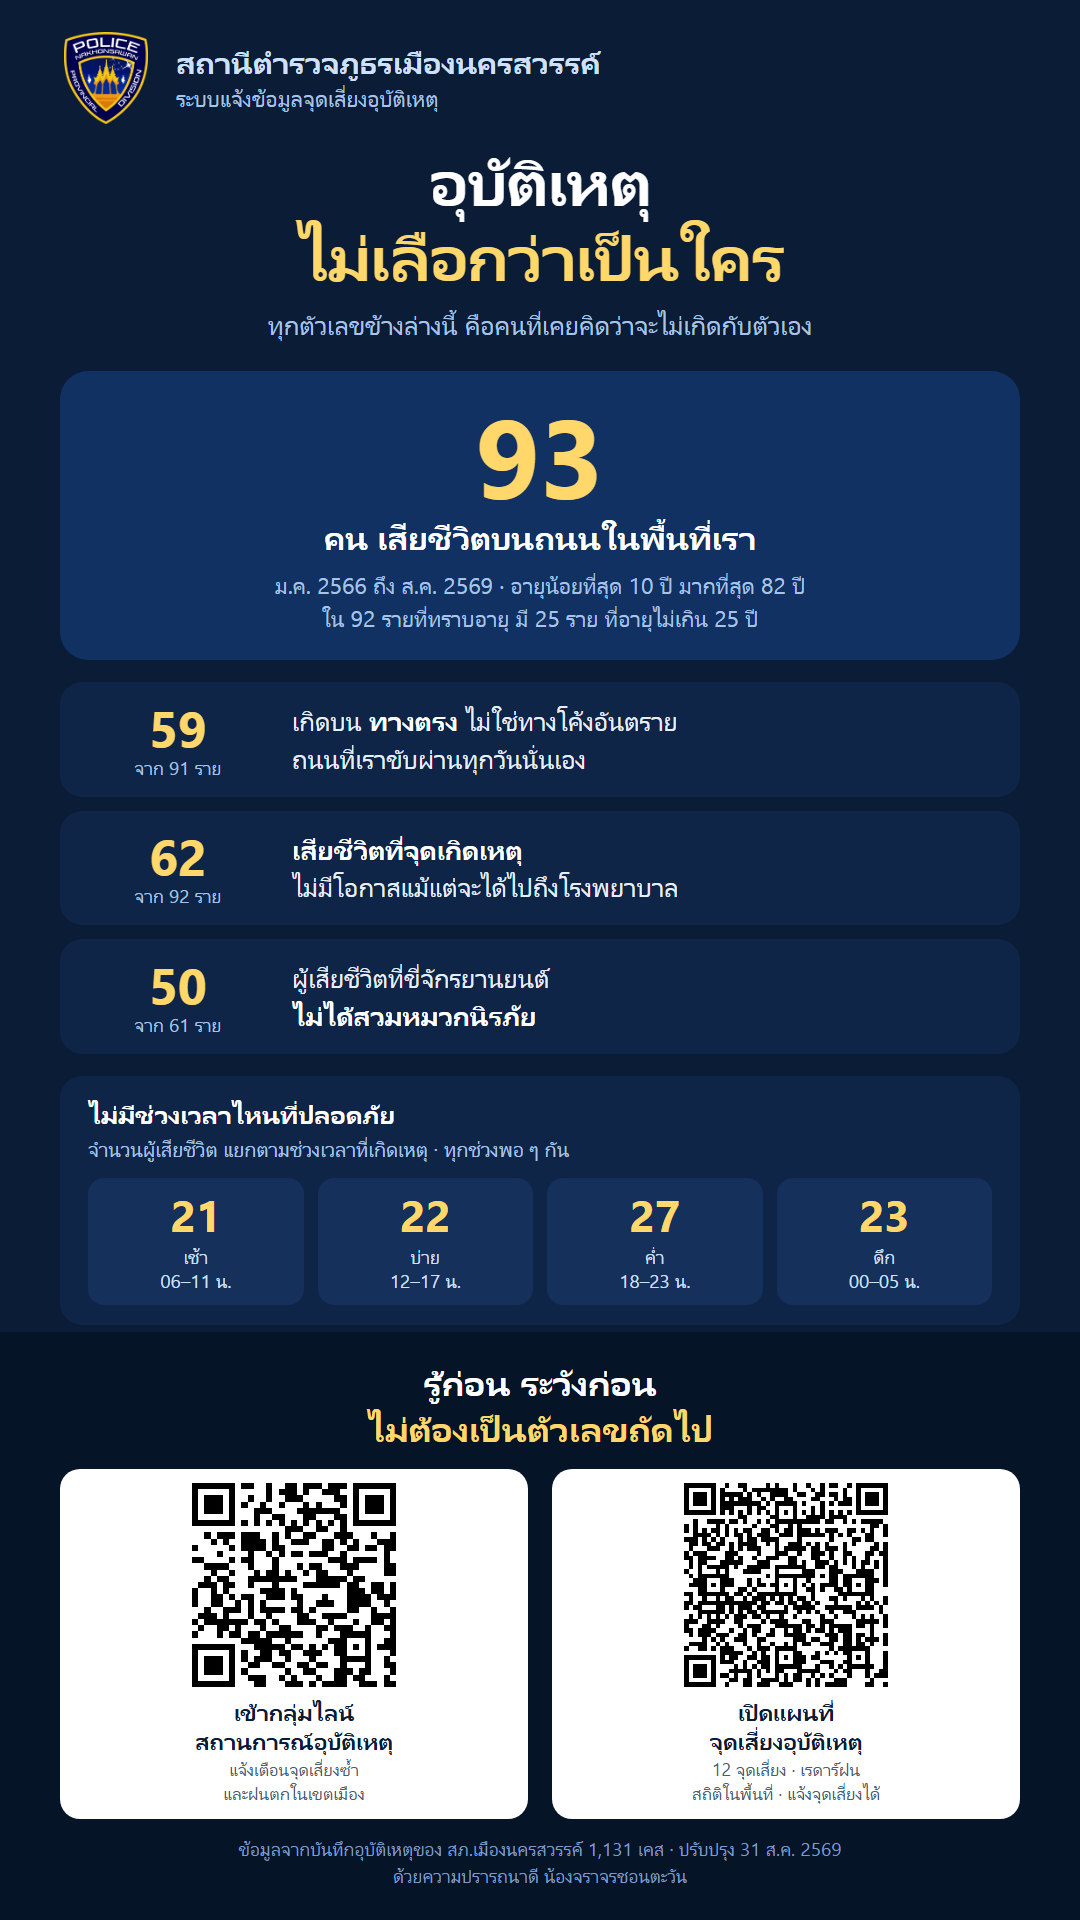
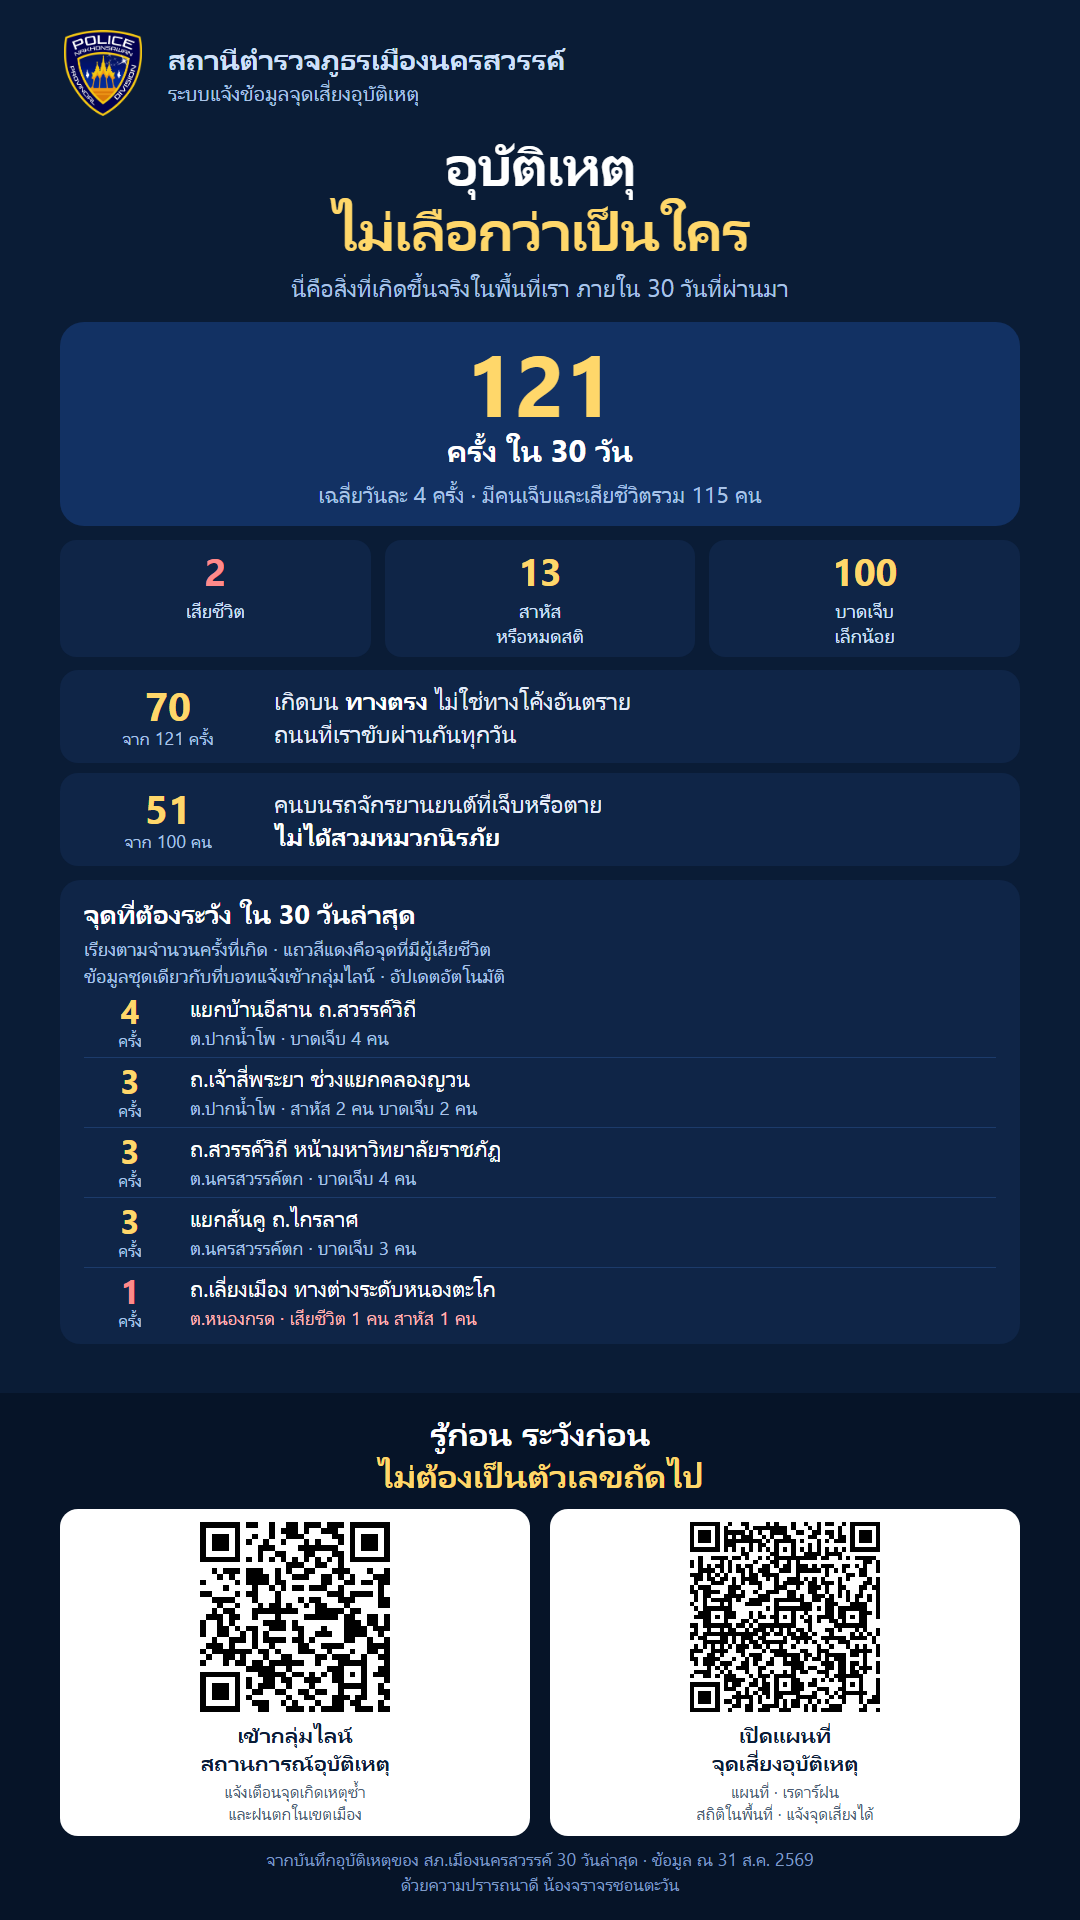
Rebuild the infographic on 30-day crash data, not the fatality analysis
Asked for the repeat-crash locations the LINE bot posts to the group, and
for the supporting numbers to come from the last 30 days of accidents
rather than the multi-year fatality set.

The bot's own report could not be called directly — line_hotspot_build
creates temporary tables and this connection is read-only. The counts came
instead out of the dedupe ref on the message it sent at 09:55 today, which
encodes crashes/dead/serious/minor per location. Place names came from the
accidents rows within 160 m of each coordinate.

Rewritten around 121 crashes in 30 days, four a day, 115 people hurt or
killed: 2 dead, 13 serious or unconscious, 100 with minor injuries. 70 of
the 121 happened on straight road. 51 of the 100 people hurt on
motorcycles had no helmet.

Two judgement calls worth recording. The spots are ordered by how often
they crash, not in the bot's order — the bot ranks by severity, which puts
a location with one crash and one death at the top, and printing that
under a heading about repeat crashes would say the opposite of what the
data says. And the heading became "จุดที่ต้องระวัง" rather than
"จุดที่เกิดเหตุซ้ำ", because the fatal location has a single crash and does
not belong under "repeat" whatever the ordering.

The vehicle field is "รถจักรยานยนต์" in accidents and "จักรยานยนต์" in
deaths. Querying the deaths spelling against accidents returned "0 of 0",
which reads as a real finding rather than a mismatched string.

Changed region(s): [[0.0306, 0.0, 0.9472, 1.0], [0.5806, 0.625, 0.6417, 0.6562]]

diff --git a/assets/poster/risk-poster.html b/assets/poster/risk-poster.html
@@ -2,18 +2,25 @@
 <html lang="th">
 <head>
 <meta charset="utf-8">
-<title>อินโฟประชาสัมพันธ์จุดเสี่ยง สภ.เมืองนครสวรรค์</title>
+<title>อินโฟประชาสัมพันธ์จุดเกิดเหตุบ่อย สภ.เมืองนครสวรรค์</title>
 <!--
    ขนาด 1080 x 1920  สัดส่วน 9 ต่อ 16  สำหรับสตอรี่และการส่งต่อในไลน์
 
-   ตัวเลขทุกตัวในหน้านี้ดึงจากฐานข้อมูลจริงเมื่อ 31 ส.ค. 2569
-   ไม่มีตัวไหนปัดขึ้นหรือประมาณเอา และทุกตัวเขียนกำกับว่าเป็นกี่จาก กี่ราย
-   เพราะการเขียนแค่เปอร์เซ็นต์ทำให้คนเถียงไม่ได้ว่าฐานมาจากไหน
+   แหล่งข้อมูล
+     จุดเกิดเหตุซ้ำ  มาจากรายงานที่ไลน์บอทส่งเข้ากลุ่มเมื่อ 31 ส.ค. 2569 เวลา 09:55
+                    เป็นหน้าต่างย้อนหลัง 30 วันแบบเลื่อน ไม่ใช่รายเดือนปฏิทิน
+                    ตัวเลขที่ฝังในรหัสอ้างอิงคือ ครั้ง/ตาย/สาหัส/เล็กน้อย
+     สถิติอื่น       มาจากตาราง accidents ช่วง 30 วันล่าสุด รวม 121 เคส
+     ชื่อสถานที่     จากช่อง place และ road ของเคสที่อยู่ในรัศมี 160 เมตรของแต่ละจุด
 
-   ตัวเลขที่ตั้งใจไม่ใช้
-     ภูมิลำเนา  69 จาก 93 รายเป็น อยู่ระหว่างตรวจสอบ จึงสรุปอะไรไม่ได้เลย
-     จำนวนสมาชิกกลุ่ม  ตัวเลขในตารางเป็นผู้ลงทะเบียนกิจกรรมหมวกนิรภัย
-                       ไม่ใช่จำนวนคนในกลุ่มไลน์ จึงไม่เอามาอ้าง
+   ตัวเลขทุกตัวเขียนกำกับว่าเป็นกี่จากกี่ราย ไม่เขียนแค่เปอร์เซ็นต์ลอย ๆ
+   เพื่อให้คนอ่านตรวจสอบได้ว่าฐานมาจากไหน
+
+   สิ่งที่ตั้งใจไม่ทำ
+     ไม่เรียงจุดตามลำดับของบอท  บอทเรียงตามความรุนแรง จึงเอาจุดที่มีผู้เสียชีวิต
+     ขึ้นก่อนทั้งที่เกิดครั้งเดียว  ถ้ายกลำดับนั้นมาวางใต้หัวข้อจุดเกิดเหตุซ้ำ
+     เท่ากับบอกว่าจุดที่เกิดครั้งเดียวคือจุดที่เกิดบ่อยที่สุด ซึ่งไม่จริง
+     จึงเรียงตามจำนวนครั้ง แล้วทำเครื่องหมายจุดที่มีผู้เสียชีวิตแยกให้เห็น
 -->
 <style>
   * { margin:0; padding:0; box-sizing:border-box }
@@ -24,47 +31,58 @@
     display:flex; flex-direction:column;
   }
 
-  .head { padding:32px 60px 18px; display:flex; align-items:center; gap:24px }
-  .head img { width:92px; height:92px; object-fit:contain }
-  .head .org { font-size:31px; font-weight:700; color:#cfe0fa; line-height:1.32 }
-  .head .org span { display:block; font-size:23px; font-weight:400; color:#a9c3e8 }
+  .head { padding:30px 60px 14px; display:flex; align-items:center; gap:22px }
+  .head img { width:86px; height:86px; object-fit:contain }
+  .head .org { font-size:29px; font-weight:700; color:#cfe0fa; line-height:1.3 }
+  .head .org span { display:block; font-size:22px; font-weight:400; color:#a9c3e8 }
 
   .hook { padding:0 60px; text-align:center }
-  .hook h1 { font-size:66px; font-weight:700; line-height:1.14; color:#fff; letter-spacing:-1px }
+  .hook h1 { font-size:57px; font-weight:700; line-height:1.14; color:#fff; letter-spacing:-1px }
   .hook h1 em { font-style:normal; color:#ffd76a }
-  .hook p { margin-top:13px; font-size:27px; color:#a9c3e8; line-height:1.45 }
+  .hook p { margin-top:9px; font-size:25px; color:#a9c3e8; line-height:1.4 }
 
-  /* ตัวเลขใหญ่ตัวเดียว ให้คนจำได้หนึ่งอย่างพอ */
-  .big { margin:26px 60px 0; background:#123163; border-radius:28px; padding:26px 40px; text-align:center }
-  .big .n { font-size:112px; font-weight:700; color:#ffd76a; line-height:1 }
-  .big .u { font-size:33px; font-weight:700; color:#fff; margin-top:5px }
-  .big .sub { font-size:23px; color:#a9c3e8; margin-top:10px; line-height:1.45 }
+  .big { margin:18px 60px 0; background:#123163; border-radius:24px; padding:17px 40px; text-align:center }
+  .big .n { font-size:86px; font-weight:700; color:#ffd76a; line-height:1 }
+  .big .u { font-size:31px; font-weight:700; color:#fff; margin-top:4px }
+  .big .sub { font-size:23px; color:#a9c3e8; margin-top:8px }
 
-  .facts { margin:22px 60px 0; display:flex; flex-direction:column; gap:14px }
-  .fact { background:#0f2547; border-radius:22px; padding:20px 28px; display:flex; align-items:center; gap:24px }
-  .fact .num { font-size:50px; font-weight:700; color:#ffd76a; line-height:1; min-width:180px; text-align:center }
-  .fact .num small { display:block; font-size:19px; font-weight:400; color:#a9c3e8; margin-top:5px }
-  .fact .txt { font-size:27px; line-height:1.38; color:#e6eefb }
+  .tiles { margin:14px 60px 0; display:flex; gap:14px }
+  .tile { flex:1; background:#0f2547; border-radius:16px; padding:12px 8px 10px; text-align:center }
+  .tile b { display:block; font-size:38px; line-height:1; color:#ffd76a }
+  .tile.red b { color:#ff8a8a }
+  .tile span { display:block; font-size:20px; color:#cfe0fa; margin-top:7px; line-height:1.25 }
+
+  .facts { margin:13px 60px 0; display:flex; flex-direction:column; gap:10px }
+  .fact { background:#0f2547; border-radius:18px; padding:13px 24px; display:flex; align-items:center; gap:22px }
+  .fact .num { font-size:40px; font-weight:700; color:#ffd76a; line-height:1; min-width:168px; text-align:center }
+  .fact .num small { display:block; font-size:18px; font-weight:400; color:#a9c3e8; margin-top:4px }
+  .fact .txt { font-size:25px; line-height:1.34; color:#e6eefb }
   .fact .txt b { color:#fff }
 
-  .hours { margin:22px 60px 0; background:#0f2547; border-radius:22px; padding:20px 28px }
-  .hours h3 { font-size:26px; color:#fff; font-weight:700 }
-  .hours p { font-size:21px; color:#a9c3e8; margin-top:3px }
-  .bars { display:flex; gap:14px; margin-top:16px }
-  .bar { flex:1; background:#16305c; border-radius:16px; padding:14px 6px 12px; text-align:center }
-  .bar b { display:block; font-size:44px; color:#ffd76a; line-height:1 }
-  .bar span { display:block; font-size:19px; color:#cfe0fa; margin-top:8px; line-height:1.3 }
+  /* จุดเกิดเหตุซ้ำ คือใจกลางของอินโฟใบนี้ จึงให้พื้นที่มากที่สุด */
+  .spots { margin:14px 60px 0; background:#0f2547; border-radius:20px; padding:15px 24px 11px }
+  .spots h3 { font-size:27px; color:#fff; font-weight:700 }
+  .spots .cap { font-size:20px; color:#a9c3e8; margin-top:3px; line-height:1.35 }
+  .row { display:flex; align-items:center; gap:14px; padding:6px 0; border-bottom:1px solid #1c3b6b }
+  .row:last-child { border-bottom:0; padding-bottom:2px }
+  .row .cnt { min-width:92px; text-align:center }
+  .row .cnt b { display:block; font-size:33px; color:#ffd76a; line-height:1 }
+  .row .cnt span { display:block; font-size:17px; color:#a9c3e8; margin-top:2px }
+  .row .where { flex:1; font-size:23px; color:#fff; line-height:1.26 }
+  .row .where i { display:block; font-style:normal; font-size:19px; color:#a9c3e8; margin-top:3px }
+  .row.fatal .cnt b { color:#ff8a8a }
+  .row.fatal .where i { color:#ffb3b3 }
 
-  .cta { margin-top:auto; background:#061428; padding:26px 60px 30px }
-  .cta h2 { font-size:36px; font-weight:700; color:#fff; text-align:center; line-height:1.28 }
+  .cta { margin-top:auto; background:#061428; padding:18px 60px 22px }
+  .cta h2 { font-size:34px; font-weight:700; color:#fff; text-align:center; line-height:1.26 }
   .cta h2 em { font-style:normal; color:#ffd76a }
-  .qrs { display:flex; gap:24px; margin-top:18px }
-  .qr { flex:1; background:#fff; border-radius:20px; padding:14px 14px 13px; text-align:center }
+  .qrs { display:flex; gap:20px; margin-top:13px }
+  .qr { flex:1; background:#fff; border-radius:18px; padding:13px 12px 12px; text-align:center }
   .qr .box { display:flex; justify-content:center }
-  .qr .label { font-size:23px; font-weight:700; color:#0a1c36; margin-top:10px; line-height:1.28 }
-  .qr .note { font-size:18px; color:#4a5c74; margin-top:3px; line-height:1.32 }
+  .qr .label { font-size:22px; font-weight:700; color:#0a1c36; margin-top:9px; line-height:1.26 }
+  .qr .note { font-size:17px; color:#4a5c74; margin-top:3px; line-height:1.3 }
 
-  .foot { font-size:19px; color:#7f9ac4; text-align:center; margin-top:16px; line-height:1.45 }
+  .foot { font-size:18px; color:#7f9ac4; text-align:center; margin-top:11px; line-height:1.42 }
 </style>
 </head>
 <body>
@@ -78,39 +96,60 @@
 
   <div class="hook">
     <h1>อุบัติเหตุ<br><em>ไม่เลือกว่าเป็นใคร</em></h1>
-    <p>ทุกตัวเลขข้างล่างนี้ คือคนที่เคยคิดว่าจะไม่เกิดกับตัวเอง</p>
+    <p>นี่คือสิ่งที่เกิดขึ้นจริงในพื้นที่เรา ภายใน 30 วันที่ผ่านมา</p>
   </div>
 
   <div class="big">
-    <div class="n">93</div>
-    <div class="u">คน เสียชีวิตบนถนนในพื้นที่เรา</div>
-    <div class="sub">ม.ค. 2566 ถึง ส.ค. 2569 · อายุน้อยที่สุด 10 ปี มากที่สุด 82 ปี<br>
-      ใน 92 รายที่ทราบอายุ มี 25 ราย ที่อายุไม่เกิน 25 ปี</div>
+    <div class="n">121</div>
+    <div class="u">ครั้ง ใน 30 วัน</div>
+    <div class="sub">เฉลี่ยวันละ 4 ครั้ง · มีคนเจ็บและเสียชีวิตรวม 115 คน</div>
+  </div>
+
+  <div class="tiles">
+    <div class="tile red"><b>2</b><span>เสียชีวิต</span></div>
+    <div class="tile"><b>13</b><span>สาหัส<br>หรือหมดสติ</span></div>
+    <div class="tile"><b>100</b><span>บาดเจ็บ<br>เล็กน้อย</span></div>
   </div>
 
   <div class="facts">
     <div class="fact">
-      <div class="num">59<small>จาก 91 ราย</small></div>
-      <div class="txt">เกิดบน <b>ทางตรง</b> ไม่ใช่ทางโค้งอันตราย<br>ถนนที่เราขับผ่านทุกวันนั่นเอง</div>
+      <div class="num">70<small>จาก 121 ครั้ง</small></div>
+      <div class="txt">เกิดบน <b>ทางตรง</b> ไม่ใช่ทางโค้งอันตราย<br>ถนนที่เราขับผ่านกันทุกวัน</div>
     </div>
     <div class="fact">
-      <div class="num">62<small>จาก 92 ราย</small></div>
-      <div class="txt"><b>เสียชีวิตที่จุดเกิดเหตุ</b><br>ไม่มีโอกาสแม้แต่จะได้ไปถึงโรงพยาบาล</div>
-    </div>
-    <div class="fact">
-      <div class="num">50<small>จาก 61 ราย</small></div>
-      <div class="txt">ผู้เสียชีวิตที่ขี่จักรยานยนต์<br><b>ไม่ได้สวมหมวกนิรภัย</b></div>
+      <div class="num">51<small>จาก 100 คน</small></div>
+      <div class="txt">คนบนรถจักรยานยนต์ที่เจ็บหรือตาย<br><b>ไม่ได้สวมหมวกนิรภัย</b></div>
     </div>
   </div>
 
-  <div class="hours">
-    <h3>ไม่มีช่วงเวลาไหนที่ปลอดภัย</h3>
-    <p>จำนวนผู้เสียชีวิต แยกตามช่วงเวลาที่เกิดเหตุ · ทุกช่วงพอ ๆ กัน</p>
-    <div class="bars">
-      <div class="bar"><b>21</b><span>เช้า<br>06–11 น.</span></div>
-      <div class="bar"><b>22</b><span>บ่าย<br>12–17 น.</span></div>
-      <div class="bar"><b>27</b><span>ค่ำ<br>18–23 น.</span></div>
-      <div class="bar"><b>23</b><span>ดึก<br>00–05 น.</span></div>
+  <div class="spots">
+    <h3>จุดที่ต้องระวัง ใน 30 วันล่าสุด</h3>
+    <div class="cap">เรียงตามจำนวนครั้งที่เกิด · แถวสีแดงคือจุดที่มีผู้เสียชีวิต<br>ข้อมูลชุดเดียวกับที่บอทแจ้งเข้ากลุ่มไลน์ · อัปเดตอัตโนมัติ</div>
+
+    <div class="row">
+      <div class="cnt"><b>4</b><span>ครั้ง</span></div>
+      <div class="where">แยกบ้านอีสาน ถ.สวรรค์วิถี
+        <i>ต.ปากน้ำโพ · บาดเจ็บ 4 คน</i></div>
+    </div>
+    <div class="row">
+      <div class="cnt"><b>3</b><span>ครั้ง</span></div>
+      <div class="where">ถ.เจ้าสี่พระยา ช่วงแยกคลองญวน
+        <i>ต.ปากน้ำโพ · สาหัส 2 คน บาดเจ็บ 2 คน</i></div>
+    </div>
+    <div class="row">
+      <div class="cnt"><b>3</b><span>ครั้ง</span></div>
+      <div class="where">ถ.สวรรค์วิถี หน้ามหาวิทยาลัยราชภัฏ
+        <i>ต.นครสวรรค์ตก · บาดเจ็บ 4 คน</i></div>
+    </div>
+    <div class="row">
+      <div class="cnt"><b>3</b><span>ครั้ง</span></div>
+      <div class="where">แยกสันคู ถ.ไกรลาศ
+        <i>ต.นครสวรรค์ตก · บาดเจ็บ 3 คน</i></div>
+    </div>
+    <div class="row fatal">
+      <div class="cnt"><b>1</b><span>ครั้ง</span></div>
+      <div class="where">ถ.เลี่ยงเมือง ทางต่างระดับหนองตะโก
+        <i>ต.หนองกรด · เสียชีวิต 1 คน สาหัส 1 คน</i></div>
     </div>
   </div>
 
@@ -121,17 +160,17 @@
       <div class="qr">
         <div class="box" id="qrGroup"></div>
         <div class="label">เข้ากลุ่มไลน์<br>สถานการณ์อุบัติเหตุ</div>
-        <div class="note">แจ้งเตือนจุดเสี่ยงซ้ำ<br>และฝนตกในเขตเมือง</div>
+        <div class="note">แจ้งเตือนจุดเกิดเหตุซ้ำ<br>และฝนตกในเขตเมือง</div>
       </div>
       <div class="qr">
         <div class="box" id="qrSite"></div>
         <div class="label">เปิดแผนที่<br>จุดเสี่ยงอุบัติเหตุ</div>
-        <div class="note">12 จุดเสี่ยง · เรดาร์ฝน<br>สถิติในพื้นที่ · แจ้งจุดเสี่ยงได้</div>
+        <div class="note">แผนที่ · เรดาร์ฝน<br>สถิติในพื้นที่ · แจ้งจุดเสี่ยงได้</div>
       </div>
     </div>
 
     <div class="foot">
-      ข้อมูลจากบันทึกอุบัติเหตุของ สภ.เมืองนครสวรรค์ 1,131 เคส · ปรับปรุง 31 ส.ค. 2569<br>
+      จากบันทึกอุบัติเหตุของ สภ.เมืองนครสวรรค์ 30 วันล่าสุด · ข้อมูล ณ 31 ส.ค. 2569<br>
       ด้วยความปรารถนาดี น้องจราจรชอนตะวัน
     </div>
   </div>
@@ -150,8 +189,8 @@ function drawQR(elId, url, px) {
   var img = el.querySelector('img');
   if (img) { img.style.width = px + 'px'; img.style.height = px + 'px'; img.style.imageRendering = 'pixelated'; }
 }
-drawQR('qrGroup', 'https://line.me/R/ti/g/jPPvVrVU_r', 204);
-drawQR('qrSite',  'https://traffic-risk-muangnakhonsawan.netlify.app/index.html', 204);
+drawQR('qrGroup', 'https://line.me/R/ti/g/jPPvVrVU_r', 190);
+drawQR('qrSite',  'https://traffic-risk-muangnakhonsawan.netlify.app/index.html', 190);
 </script>
 </body>
 </html>
